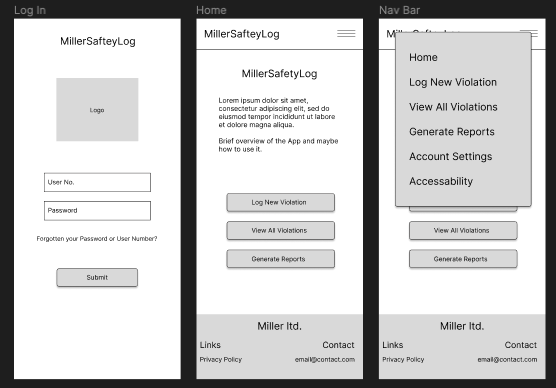
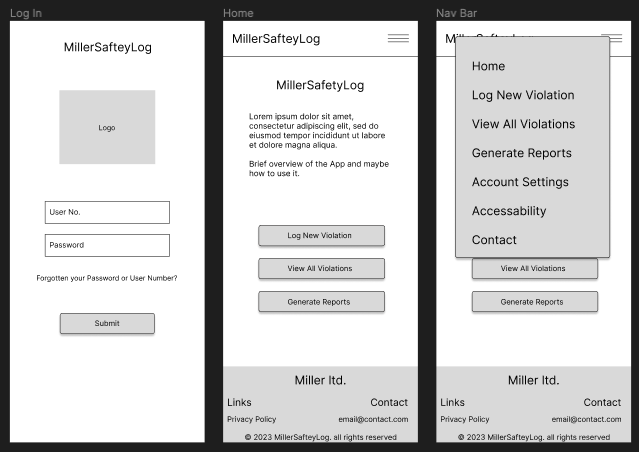
first 3 screens txt

diff --git a/ReadMe.md b/ReadMe.md
@@ -28,8 +28,45 @@
 
 10. At the end of this I will reflect on what I have learned and share this with the team and service desk to see what can be done to improve this process.
 ***
+
 # Wireframes
+
+
 <div align="center">
 <img src =first.png?raw=true >
+</div>
+
+1. Log In:
+The Log In screen should have:
+- App name and logo.
+- Form for inputting user details
+- Link to recover details if forgotten
+- I would include pop ups if incorrect details have been put in
+
+
+2. Home Screen:
+The home screen should include the following elements:
+- A header with the app name, logo and nav bar.
+- A brief description of the app's purpose.
+- Button to log a new violation.
+- Button to view all logged violations.
+- Button to generate reports.
+- Footer with copyright information, contact details and a privacy policy link.
+
+3. Nav Bar:
+The navigation should be placed at the top of the screen and should include the following elements:
+- Home
+- Log New Violation
+- View All Violations:
+- Generate Reports
+- Account Setting: to allow the user all appropriate changes.
+- Accessability: to allow the user to make the app more readable or accessible 
+- Contact: all appropriate contact information
+
+<div align="center">
 <img src =second.png?raw=true >
 </div>
+
+
+
+
